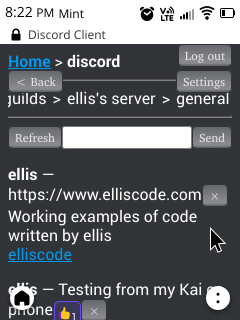
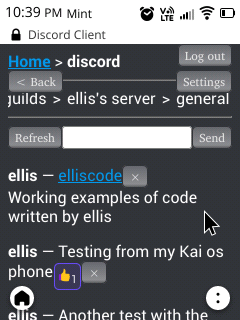
updates to the landing page

Changed region(s): [[0.0292, 0.5, 0.9625, 1.0], [0.0, 0.0, 0.3792, 0.0625], [0.0875, 0.5, 0.1167, 0.5312]]

diff --git a/s3/signup.html b/s3/signup.html
@@ -54,7 +54,7 @@
     <img src="img/location-sharer.png" alt="A screenshot of the location sharer app" />
     <h3>File sharer</h3>
     <p>The file sharer app allows you to upload photos and videos for sharing with others. Simply upload your file and then click the "Click here to send an SMS" link to send it to your friends or family. The recipient does not need to have an account on dumbphoneapps.com to view the media. This is great for phones that do not have MMS capability, or carriers that downscale your media to unusably bad quality when you send a MMS.</p>
-    <img src="img/file-sharer-share.png" alt="A screenshot of the share functionality in the file sharer app" /><img src="img/file-sharer-viewer.png" alt="A screenshot of the viewer functionality in the file sharer app" />
+    <img src="img/file-sharer-viewer.png" alt="A screenshot of the viewer functionality in the file sharer app" />
     <h3>Discord</h3>
     <p>A discord client for discord bot accounts. You must log in with a discord bot token, not a username and password, and you must ensure your bot has the "Read Messages/View Channels" and "Send Messages" permissions in whichever server you add it to (permissions integer 3072).</p>
     <img src="img/discord.png" alt="A screenshot of the discord app" />

diff --git a/s3/discord/js/discord.js b/s3/discord/js/discord.js
@@ -453,7 +453,13 @@ function buildMessage(parentElement, message) {
         } else {
           embedLink.innerText = embed.url;
         }
-        parentElement.appendChild(embedLink);
+        if (parentElement.innerHTML.includes(embed.url)) {
+          parentElement.innerHTML = parentElement.innerHTML.replace(embed.url, embedLink.outerHTML);
+        } else if (parentElement.innerHTML.includes(embed.url.replace(/\/$/,''))) {
+          parentElement.innerHTML = parentElement.innerHTML.replace(embed.url.replace(/\/$/,''), embedLink.outerHTML);
+        } else {
+          parentElement.appendChild(embedLink);
+        }
       }
       if (embed.hasOwnProperty("image")) {
         let lineBreak = document.createElement("br");
